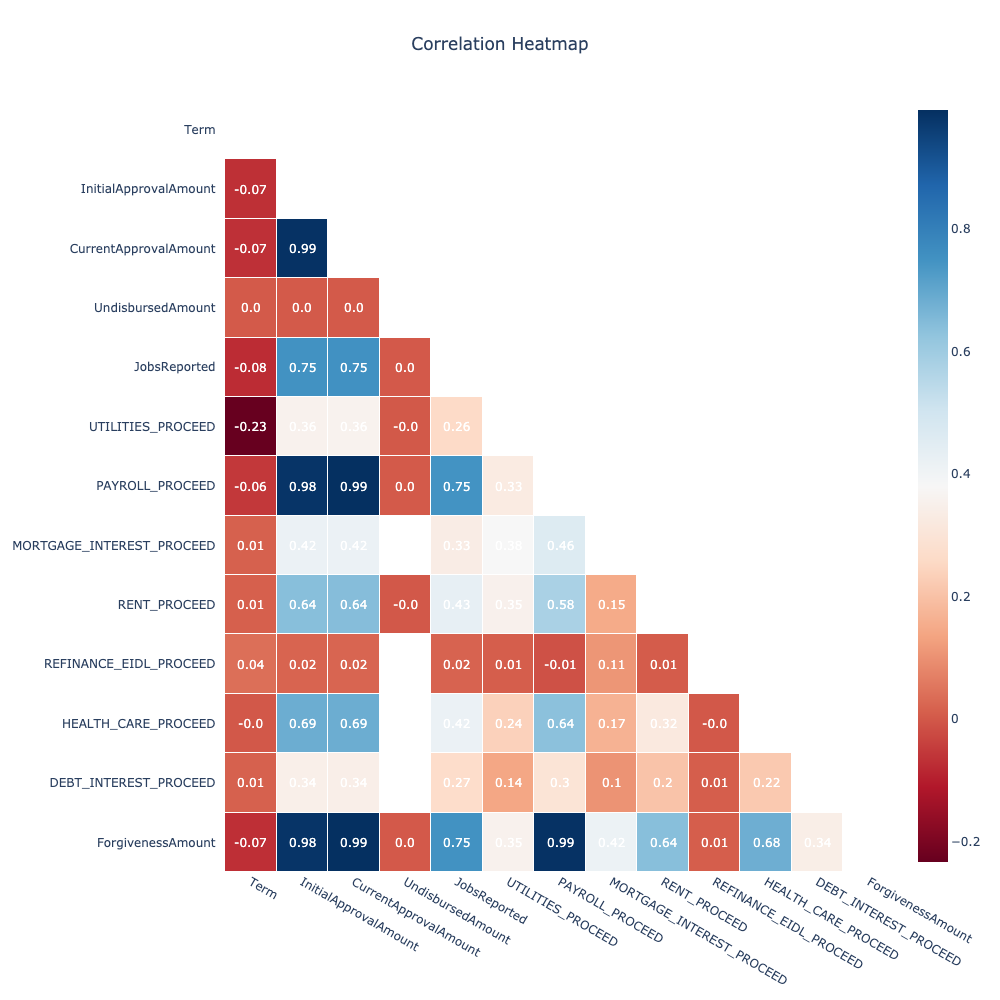
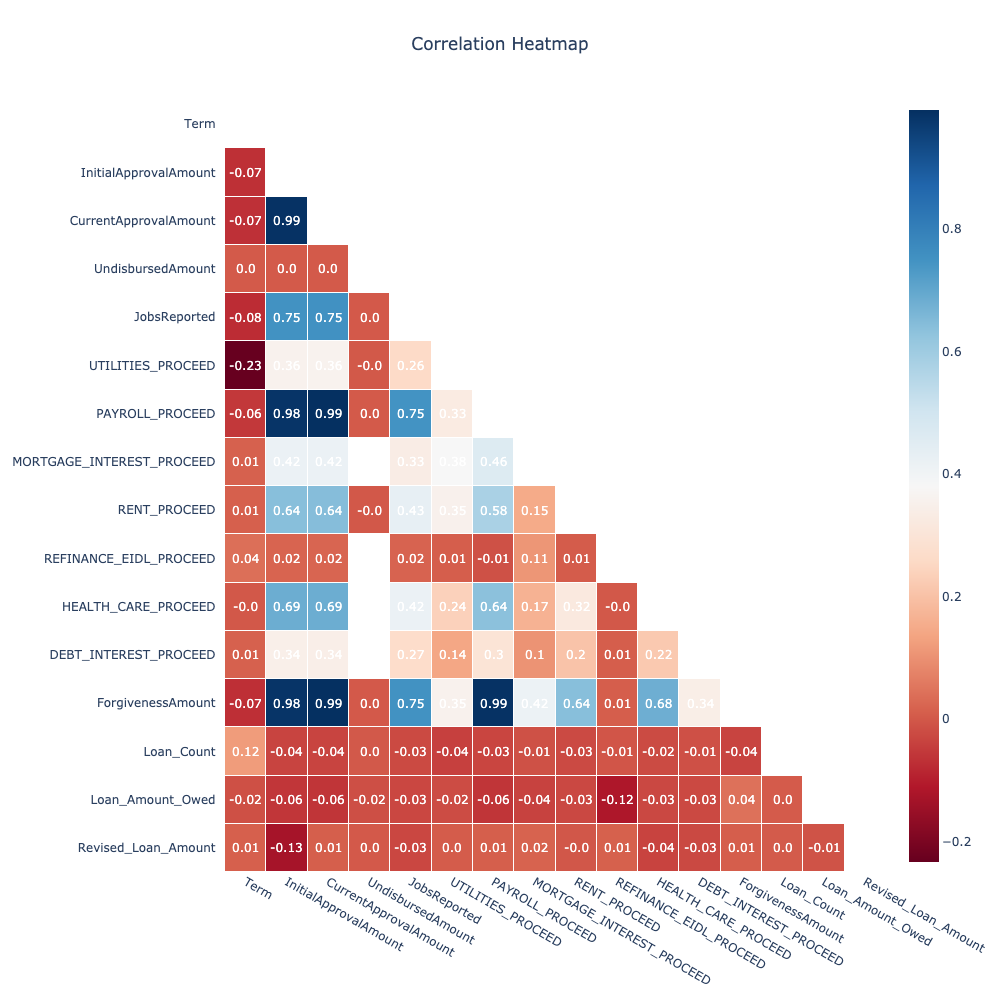
added new features

Changed region(s): [[0.0, 0.124, 0.992, 0.992], [0.899, 0.093, 0.992, 0.868], [0.062, 0.589, 0.217, 0.62]]

diff --git a/Feature_Engineering/create_features.py b/Feature_Engineering/create_features.py
@@ -33,3 +33,22 @@ class Create_Features:
         data['Industry_Type']=data['Industry_Type'].map(industry_mapping_dictionary)
 
         return data
+    
+    def number_of_loans(self, data):
+        loan_count_feature=data.groupby('BorrowerName').count()['LoanNumber'].reset_index().rename(columns={'LoanNumber':'Loan_Count'})
+        data=data.merge(loan_count_feature, 
+                        left_on='BorrowerName', 
+                        right_on='BorrowerName', 
+                        how='left')
+        
+        return data
+
+    def amount_of_loan_forgiven(self, data):
+        data['Loan_Amount_Owed']=data['ForgivenessAmount']-data['CurrentApprovalAmount']
+
+        return data
+    
+    def revised_loan_amount(self, data):
+        data['Revised_Loan_Amount']=data['CurrentApprovalAmount']-data['InitialApprovalAmount']
+
+        return data

diff --git a/main.py b/main.py
@@ -29,7 +29,10 @@ print(f'After removing Null values the new dataframe has the following shape: {r
 
 # Feature Engineering: Industry Mapping
 print('Feature Engineering: Industry Mapping\n')
-clean_data_df=create_features.mapping_industries(data=remove_nulls_df)
+clean_data_df=create_features.mapping_industries(data=remove_nulls_df) # Industry Mapping
+clean_data_df=create_features.number_of_loans(data=clean_data_df) # Number of Loans
+clean_data_df=create_features.amount_of_loan_forgiven(data=clean_data_df) # Amount of Loan Forgiven
+clean_data_df=create_features.revised_loan_amount(data=clean_data_df) # Revised Loan Approval
 
 
 # EDA (All EDA Images are Output in the folder --> Plots_Storage/EDA_Plots)
